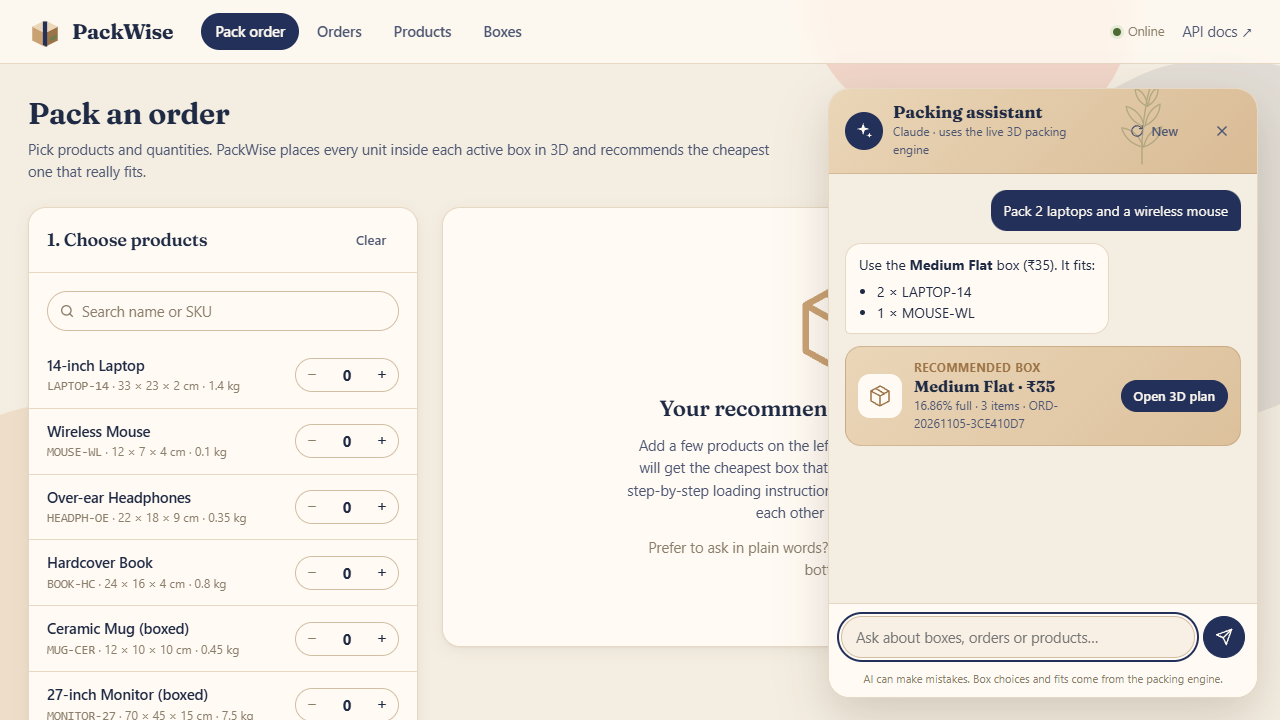
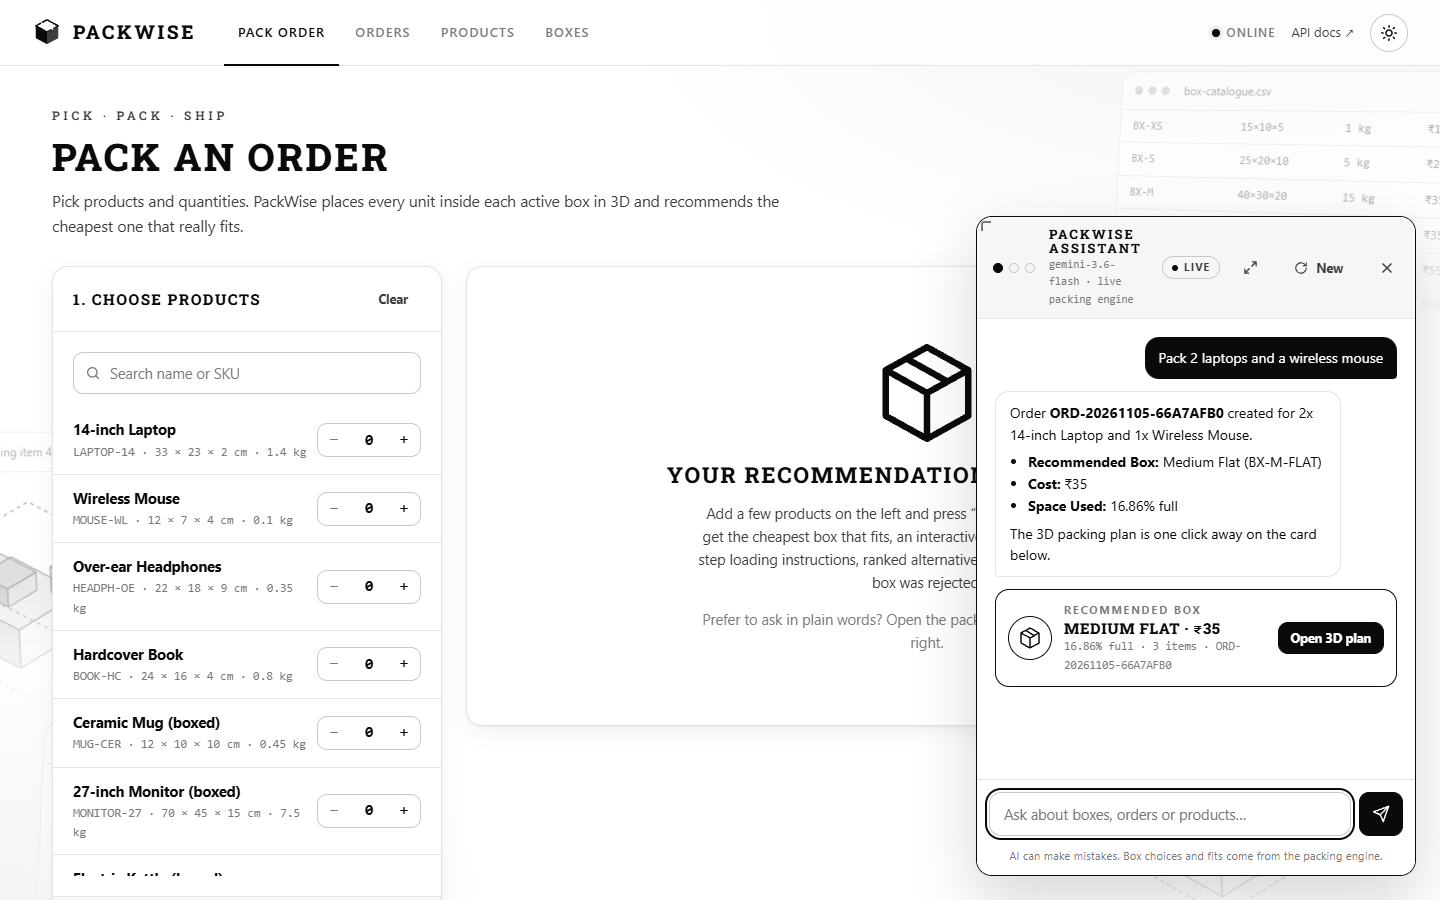
Assistant console header fits on one line; clearer Gemini overload message
- Title and model name on one line with ellipsis; icon-only new-chat
  button with an accessible label (found in the real live screenshot)
- Sustained free-tier 503 (after retries) now says Gemini is overloaded
- README known limitations: Gemini free tier

diff --git a/web/static/web/css/app.css b/web/static/web/css/app.css
@@ -454,8 +454,12 @@ dialog .dialog-foot { display: flex; justify-content: flex-end; gap: 8px; paddin
 .chat-head .dots { display: flex; gap: 6px; margin-right: 4px; }
 .chat-head .dots i { width: 10px; height: 10px; border-radius: 50%; border: 1.5px solid var(--border-strong); }
 .chat-head .dots i:first-child { background: var(--text); border-color: var(--text); }
-.chat-head .title { font-family: var(--display); font-weight: 750; font-size: 13px; letter-spacing: 0.16em; text-transform: uppercase; line-height: 1.1; }
+/* One line each, truncated when the console is narrow; the buttons never wrap. */
+.chat-head .head-text { flex: 1; min-width: 0; }
+.chat-head .title, .chat-head .subtitle { white-space: nowrap; overflow: hidden; text-overflow: ellipsis; }
+.chat-head .title { font-family: var(--display); font-weight: 750; font-size: 13px; letter-spacing: 0.14em; text-transform: uppercase; line-height: 1.2; }
 .chat-head .subtitle { font-family: var(--mono); font-size: 11px; color: var(--muted); }
+.chat-head .live, .chat-head .btn { flex: none; }
 .chat-head .spacer { flex: 1; }
 .chat-head .live { display: inline-flex; align-items: center; gap: 6px; padding: 2px 9px; border: 1px solid var(--border-strong); border-radius: 999px; font-size: 10.5px; font-weight: 700; letter-spacing: 0.12em; text-transform: uppercase; color: var(--text-2); }
 .chat-head .live::before { content: ""; width: 6px; height: 6px; border-radius: 50%; background: var(--text); }

diff --git a/web/static/web/js/assistant.js b/web/static/web/js/assistant.js
@@ -79,7 +79,7 @@ export function mountAssistant(root) {
   const subtitle = h("div", { class: "subtitle" }, "connecting…");
   const live = h("span", { class: "live off" }, "Offline");
   const maximize = h("button", { class: "btn btn-ghost btn-sm maximize-btn", type: "button", "aria-label": "Maximize console", "aria-pressed": "false" }, icon("expand", 15));
-  const newChat = h("button", { class: "btn btn-ghost btn-sm", type: "button", title: "Start a new chat" }, icon("refresh", 14), "New");
+  const newChat = h("button", { class: "btn btn-ghost btn-sm", type: "button", title: "Start a new chat", "aria-label": "Start a new chat" }, icon("refresh", 15));
   const close = h("button", { class: "btn btn-ghost btn-sm", type: "button", "aria-label": "Close assistant" }, icon("close", 16));
   const handles = ["corner", "left", "top"].map((edge) => h("span", { class: `resize-handle ${edge}`, "data-edge": edge, "aria-hidden": "true" }));
   const panel = h(
@@ -90,8 +90,7 @@ export function mountAssistant(root) {
       "div",
       { class: "chat-head" },
       h("span", { class: "dots", "aria-hidden": "true" }, h("i"), h("i"), h("i")),
-      h("div", null, h("div", { class: "title" }, "PackWise assistant"), subtitle),
-      h("span", { class: "spacer" }),
+      h("div", { class: "head-text" }, h("div", { class: "title" }, "Assistant"), subtitle),
       live,
       maximize,
       newChat,

diff --git a/assistant/gemini.py b/assistant/gemini.py
@@ -163,7 +163,13 @@ def run_rounds(conversation: Conversation, user_text: str, client: genai.Client,
         yield {"type": "error", "message": message}
     except errors.ServerError as exc:
         logger.error("assistant_gemini_server_error", extra={"status": exc.code})
-        yield {"type": "error", "message": "The AI service is having trouble. Please try again."}
+        if exc.code == 503:  # still overloaded after the automatic retries (common on the free tier)
+            message = (
+                "Gemini is overloaded right now (this demo uses its free tier). Please try again in a few seconds."
+            )
+        else:
+            message = "The AI service is having trouble. Please try again."
+        yield {"type": "error", "message": message}
     except httpx.HTTPError:
         yield {"type": "error", "message": "Could not reach the AI service. Please try again."}
     finally:

diff --git a/e2e/test_assistant.py b/e2e/test_assistant.py
@@ -6,7 +6,6 @@ tool execution, database writes and UI rendering.
 """
 
 import os
-import re
 from pathlib import Path
 
 import pytest
@@ -140,7 +139,7 @@ def test_assistant_shows_errors_and_can_start_over(app, scripted_assistant):
     textarea.press("Enter")
     expect(app.locator(".msg.bot.error")).to_contain_text("busy")
 
-    app.get_by_role("button", name=re.compile("New")).click()
+    app.get_by_role("button", name="Start a new chat").click()
     expect(app.locator(".chat-suggestions")).to_be_visible()
     textarea.fill("Hi")
     app.get_by_test_id("chat-send").click()

diff --git a/assistant/tests/test_gemini.py b/assistant/tests/test_gemini.py
@@ -127,7 +127,13 @@ def test_call_cut_off_by_token_limit_is_never_executed(catalog):
 
 @pytest.mark.parametrize(
     ("status", "fragment"),
-    [(429, "free usage limit"), (403, "API key rejected"), (404, "model is not available"), (500, "having trouble")],
+    [
+        (429, "free usage limit"),
+        (403, "API key rejected"),
+        (404, "model is not available"),
+        (500, "having trouble"),
+        (503, "overloaded right now"),
+    ],
 )
 def test_api_errors_end_the_turn_cleanly(catalog, status, fragment):
     conversation = Conversation.objects.create()

diff --git a/AI_USAGE.md b/AI_USAGE.md
@@ -123,6 +123,7 @@ These are changes made **during the session**, mostly when the AI caught its own
 | 38 | 3D axis markers still red/green/blue after the redesign | Self-review against "black and white" | Monochrome lines (the width axis dashed) |
 | 39 | Backdrop "3D packer" card sat behind the page title | Screenshot review | Moved beside the product list |
 | 41 | Gemini client made no retries | **Found by the real-API check on the live site:** one free-tier `503 UNAVAILABLE` mid-conversation ended the chat with an error (confirmed in the Space's runtime log) | SDK retries with backoff for 408/5xx (up to 4 attempts, streamed calls included); 429 is deliberately not retried; regression tests for both |
+| 42 | Console header wrapped ("PACKWISE / ASSISTANT", model name on three lines), and a 503 still failing after retries said only "having trouble" | Screenshot of the real live chat; Space log showed a sustained free-tier 503 | Single-line title and subtitle with ellipsis, icon-only "new chat" button with an accessible label; a specific "Gemini is overloaded (free tier)" message |
 | 40 | New browser tests were flaky or wrong | Runs failed intermittently: the console was measured mid-animation; the test assumed it could grow taller in a 720 px viewport; the theme colour was read mid-transition; `expect` kept its 5 s default | Wait for animations and the final colour, a viewport-aware resize test, a 15 s `expect` timeout; then repeated runs were green |
 
 ✍ Author: _add anything I rejected, rewrote or asked the AI to change after reviewing the code myself._

diff --git a/README.md b/README.md
@@ -409,6 +409,10 @@ Utilization is compared as an exact `Fraction`, so ties are genuine ties. The de
 * Orders are never split across several boxes. If no single box fits, the result is `no_feasible_box`.
 * Recommendations use the products' **current** dimensions. Each stored recommendation keeps its own snapshot in `packing_details`.
 * The API is **unauthenticated** for ease of review. It is protected only by validation and throttling, and throttle counters are per-process (local memory).
+* The live AI assistant runs on **Gemini's free tier**:
+  * per-project rate limits apply;
+  * Google is sometimes overloaded (HTTP 503). Those are retried automatically, but a sustained overload ends the turn with an "overloaded, try again in a few seconds" message;
+  * the packing features never depend on it.
 
 ## 7. Technology stack
 
